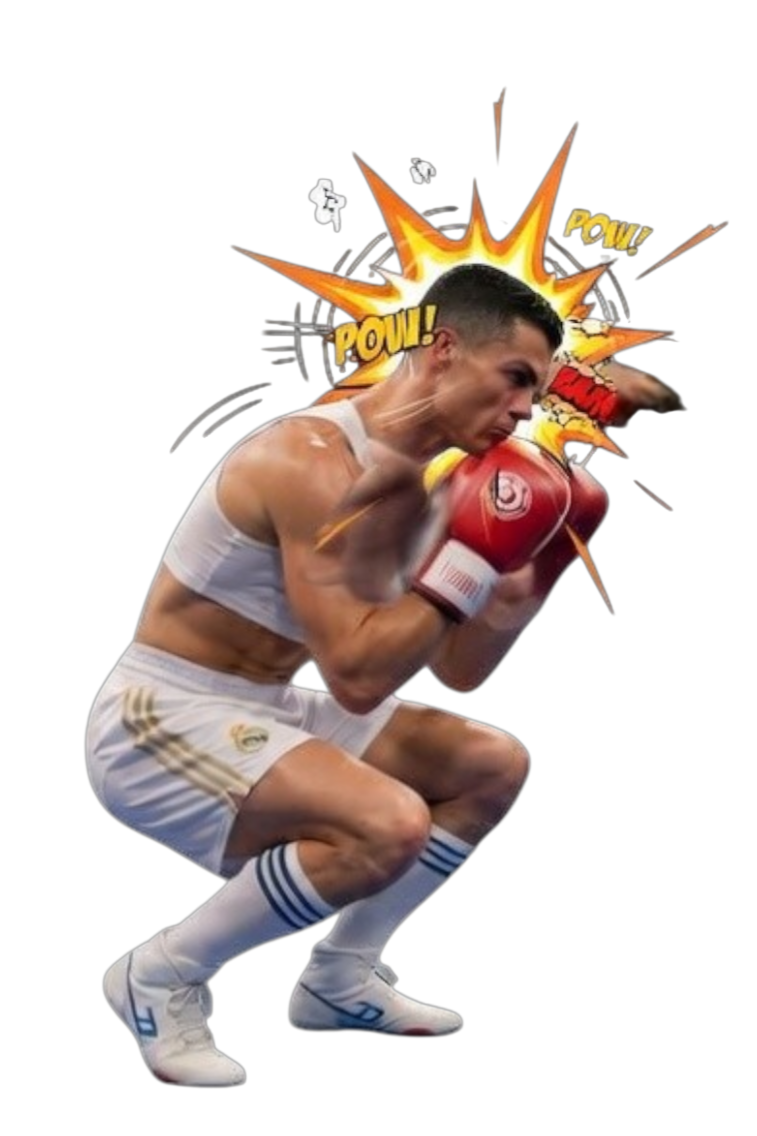
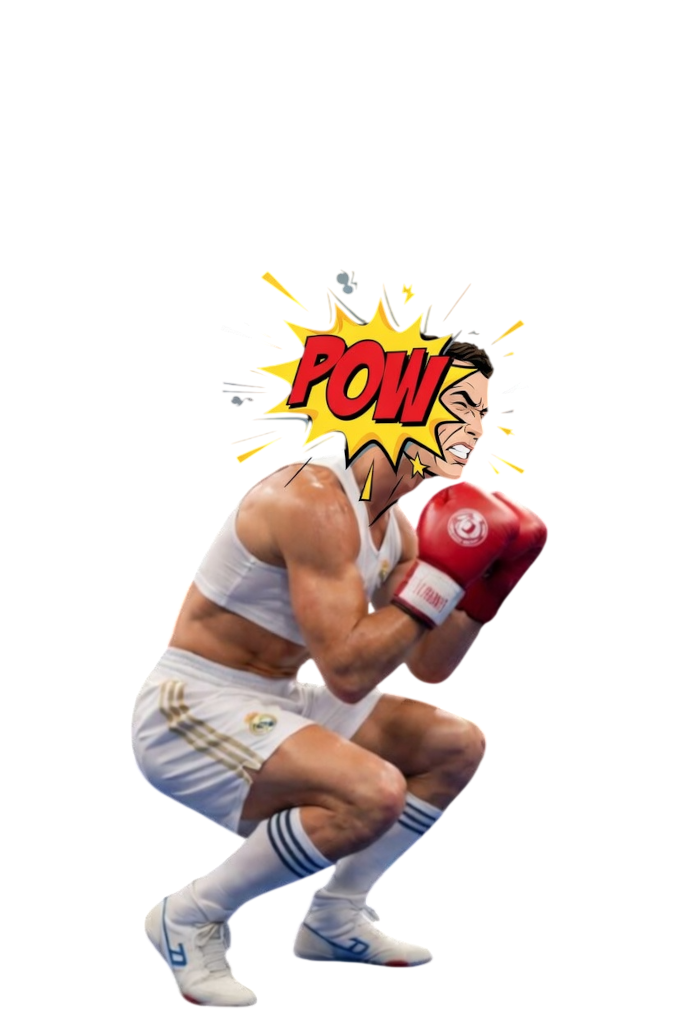
Fix Ronaldo Assets and fix in game distance

diff --git a/core/src/main/java/entity/Fighter.java b/core/src/main/java/entity/Fighter.java
@@ -29,10 +29,11 @@ public class Fighter {
         this.controlMode = mode;
         this.stats = new FighterStats();
         this.y = Constants.GROUND_Y;
-        this.x = (side == Constants.Side.LEFT) ?
-            Constants.APP_WIDTH * 0.38f - Constants.CHAR_SIZE / 2 :
-            Constants.APP_WIDTH * 0.53f - Constants.CHAR_SIZE / 2;
 
+        // Vị trí đứng sát nhau hơn + cân đối
+        this.x = (side == Constants.Side.LEFT) ?
+            Constants.APP_WIDTH * 0.30f :     // Ronaldo (bên trái)
+            Constants.APP_WIDTH * 0.45f;      // Messi (bên phải)
         loadTextures(folderPath);
     }
 
@@ -141,18 +142,32 @@ public class Fighter {
         boolean flipX = (side == Constants.Side.RIGHT);
         Texture currentTex = textures.get(currentState);
 
-        // Nếu đang ở trạng thái HIT thì dùng hit_stand.png
+        // Nếu đang HIT thì dùng hit_stand
         if (currentState == HIT) {
             currentTex = textures.get(HIT);
         }
 
-        // Nếu không tìm thấy texture thì fallback về IDLE
+        // Fallback về IDLE nếu không có
         if (currentTex == null) {
             currentTex = textures.get(IDLE);
         }
 
-        batch.draw(currentTex, x, y, Constants.CHAR_SIZE, Constants.CHAR_SIZE,
-            0, 0, currentTex.getWidth(), currentTex.getHeight(), flipX, false);
+        if (currentTex == null) return;
+
+        // ====================== SỬA CHÍNH Ở ĐÂY ======================
+        // Giữ chiều cao cố định = CHAR_SIZE (380f hiện tại)
+        // Chiều rộng tính theo tỷ lệ gốc của texture (682x1024 → sẽ ra khoảng 253)
+        float targetHeight = Constants.CHAR_SIZE;
+        float targetWidth  = targetHeight * (currentTex.getWidth() / (float) currentTex.getHeight());
+
+        // Vẽ với kích thước mới (không ép vuông nữa)
+        batch.draw(currentTex,
+            x, y,                          // vị trí
+            targetWidth, targetHeight,     // kích thước thực tế
+            0, 0,
+            currentTex.getWidth(),         // toàn bộ texture
+            currentTex.getHeight(),
+            flipX, false);
     }
 
     // GETTERS & SETTERS

diff --git a/core/src/main/java/util/Constants.java b/core/src/main/java/util/Constants.java
@@ -15,8 +15,8 @@ public final class Constants {
     // --- CHỈ SỐ VÕ SĨ (20 MÁU - 10 MANA) ---
     public static final int   MAX_HP            = 30;    // Đấm 20 phát là đi
     public static final float MAX_MANA          = 10f;   // Đủ 10 là nổ Skill
-    public static final float GROUND_Y          = 100f;  // Đứng cố định trên sàn
-    public static final float CHAR_SIZE         = 380f;  // Cho nhân vật to lên nhìn cho sướng (vì ko di chuyển)
+    public static final float GROUND_Y          = 40f;  // Đứng cố định trên sàn
+    public static final float CHAR_SIZE         = 520f;  // Cho nhân vật to lên nhìn cho sướng (vì ko di chuyển)
 
     // --- CHỈ SỐ SÁT THƯƠNG (1 MÁU/ĐÒN) ---
     public static final float DAMAGE_PUNCH      = 1f;
